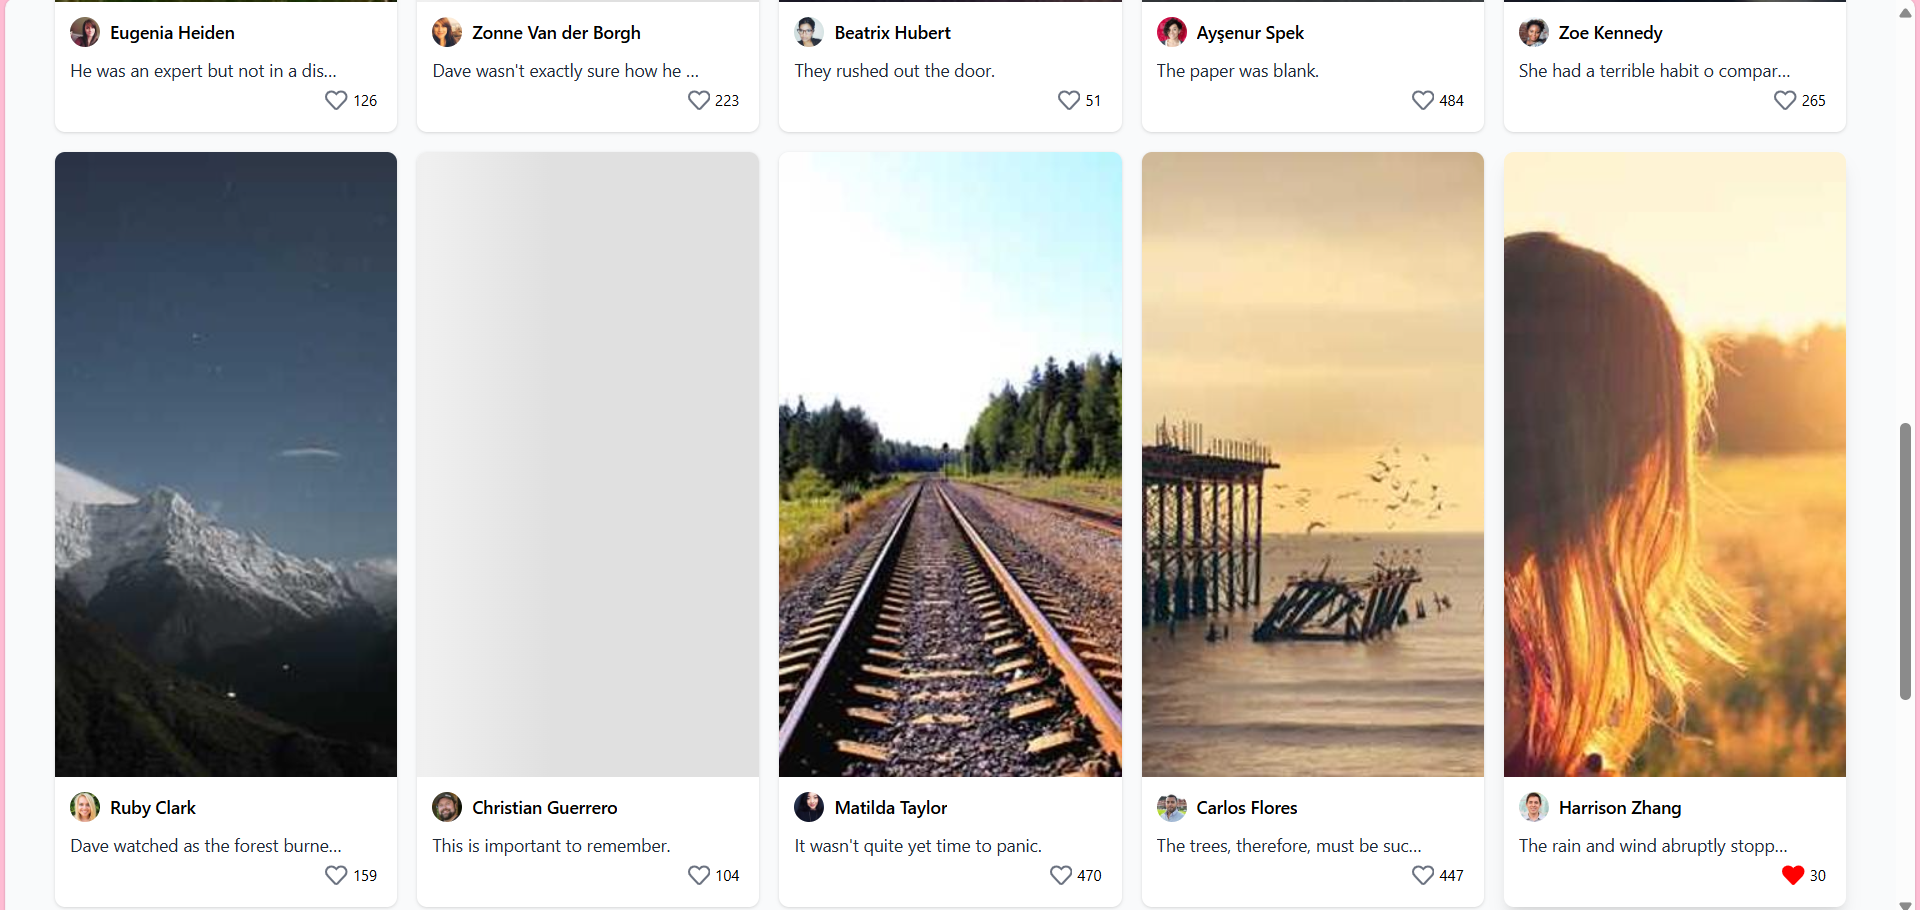
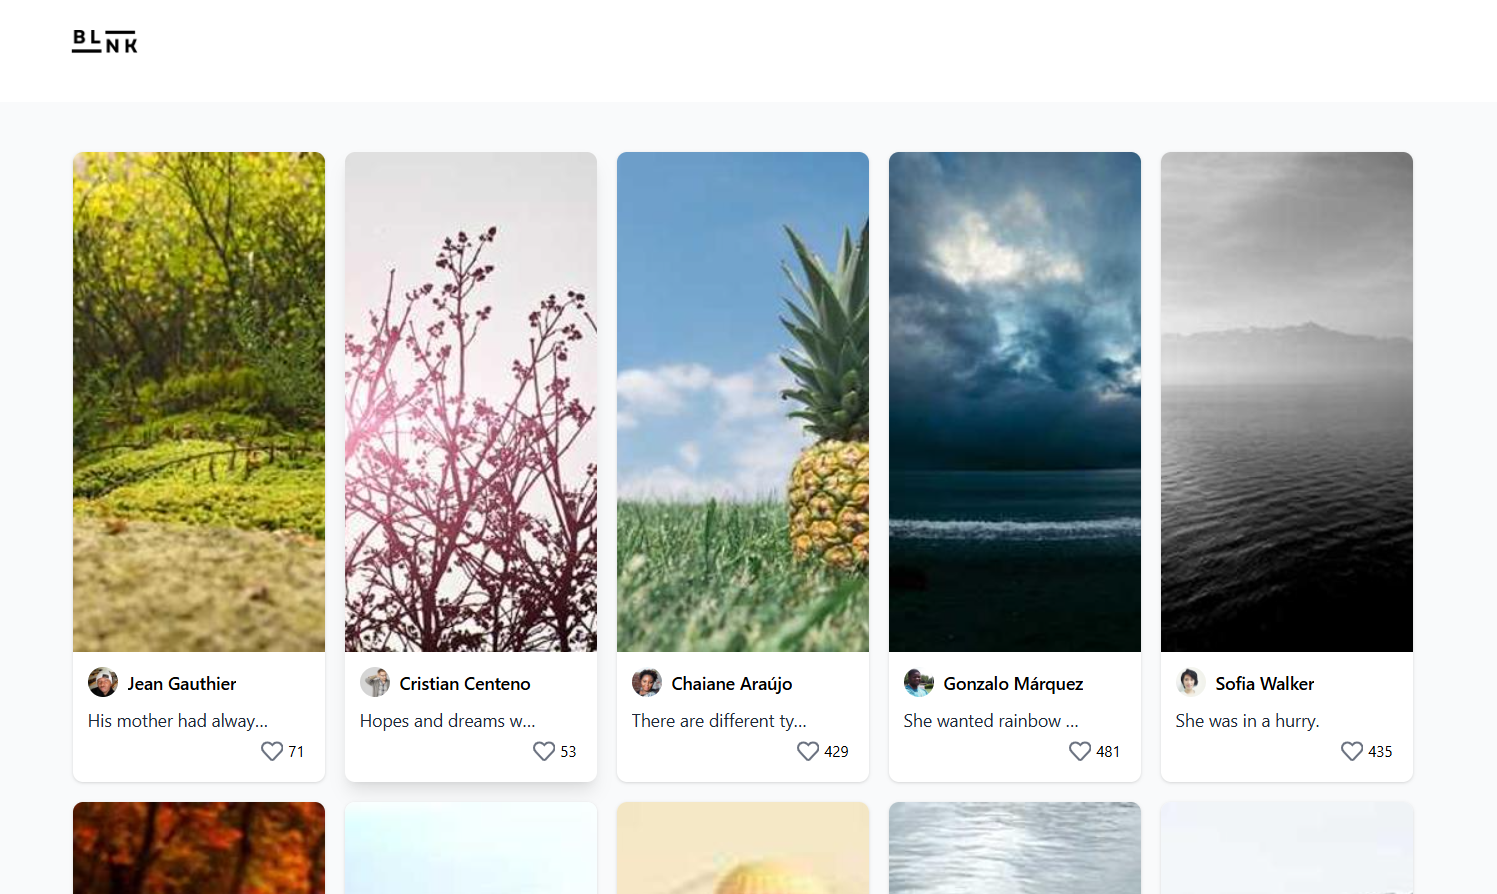
feat: update screenshot and format the navbar

diff --git a/src/App.jsx b/src/App.jsx
@@ -1,13 +1,58 @@
-import Counter from "@/components/Counter";
+import { useState } from "react";
 import PostList from "@/components/PostList";
+import { FaBars, FaTimes } from "react-icons/fa";
 
 export default function App() {
+  const [mobileMenuOpen, setMobileMenuOpen] = useState(false);
+
   return (
     <div className="w-full min-h-screen bg-gray-50">
-      <div className="p-6 space-y-6 max-w-full">
-        <h1 className="text-xl font-bold">Post Viewer App</h1>
+      {/* Navbar */}
+      <header className="w-full bg-white">
+        <div className="max-w-6xl mx-auto flex items-center justify-between px-4">
+          {/* Logo + Title */}
+          <div className="flex items-center gap-3">
+            <img
+              src="/src/assets/blink_logo.png"
+              alt="Blink Logo"
+              className="w-24 h-24 object-contain"
+            />
+          </div>
+
+
+          {/* Mobile menu button */}
+          <div className="md:hidden">
+            <button
+              onClick={() => setMobileMenuOpen(!mobileMenuOpen)}
+              className="text-gray-700 focus:outline-none"
+            >
+              {mobileMenuOpen ? <FaTimes size={24} /> : <FaBars size={24} />}
+            </button>
+          </div>
+        </div>
+
+        {/* Mobile menu */}
+        {mobileMenuOpen && (
+          <div className="md:hidden bg-white shadow-md">
+            <nav className="flex flex-col px-6 py-4 gap-3">
+              <a href="#" className="text-gray-700 hover:text-gray-900">
+                Home
+              </a>
+              <a href="#" className="text-gray-700 hover:text-gray-900">
+                About
+              </a>
+              <a href="#" className="text-gray-700 hover:text-gray-900">
+                Contact
+              </a>
+            </nav>
+          </div>
+        )}
+      </header>
+
+      {/* Main content */}
+      <main className="max-w-6xl mx-auto p-6 space-y-6">
         <PostList />
-      </div>
+      </main>
     </div>
   );
 }

diff --git a/index.html b/index.html
@@ -2,9 +2,9 @@
 <html lang="en">
   <head>
     <meta charset="UTF-8" />
-    <link rel="icon" type="image/svg+xml" href="/vite.svg" />
+    <link rel="icon" type="image/png" href="/./src/assets/blink_logo.png" />
     <meta name="viewport" content="width=device-width, initial-scale=1.0" />
-    <title>Post Viewer</title>
+    <title>Blink</title>
   </head>
   <body>
     <div id="root"></div>
